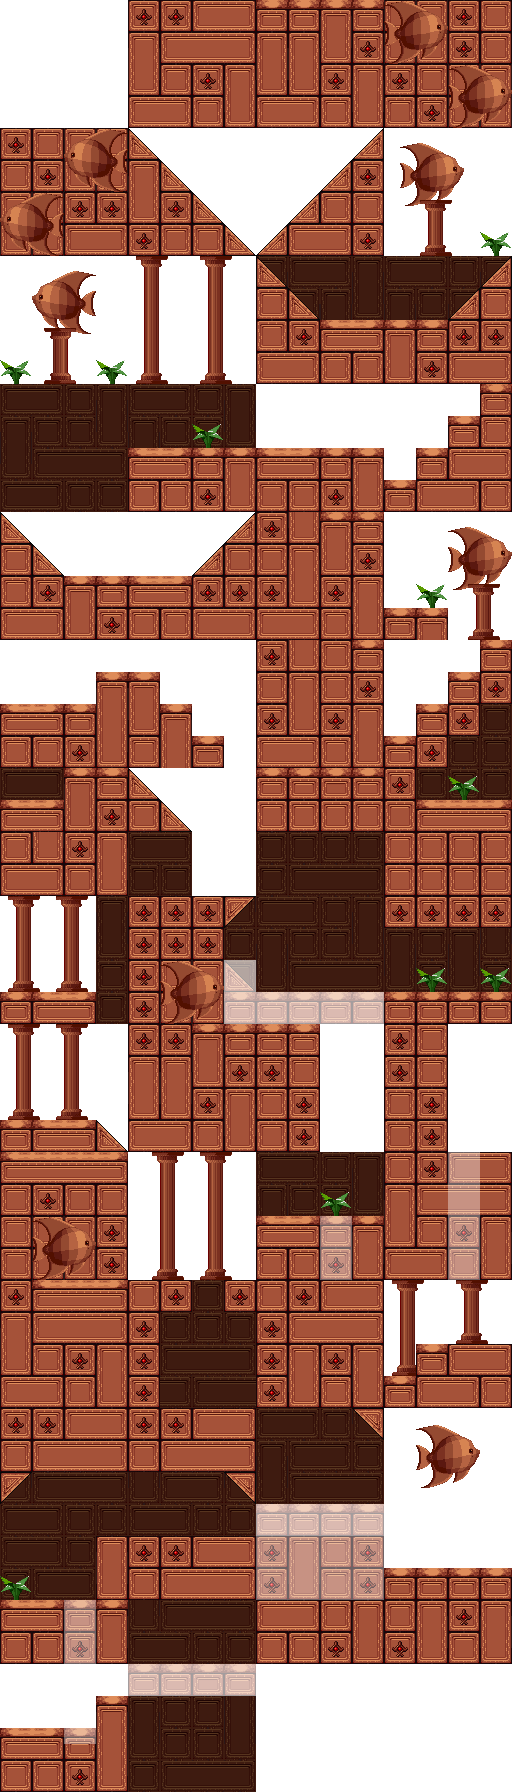
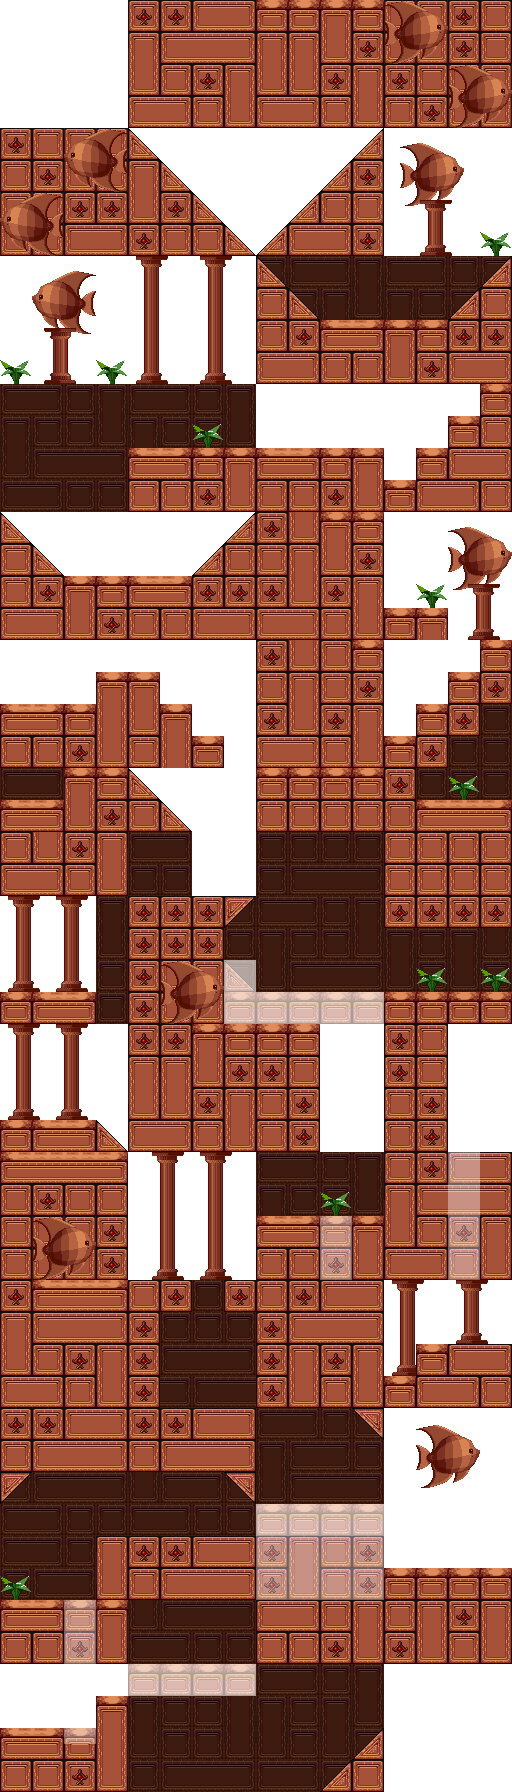
Improve R5 background, add water waves

Changed region(s): [[0.5, 0.9062, 0.75, 1.0]]

diff --git a/src/screen_level.c b/src/screen_level.c
@@ -284,6 +284,105 @@ screen_level_update(void *d)
 }
 
 void
+_screen_level_draw_water(screen_level_data *)
+{
+    if(level_water_y >= 0) {
+        int32_t camera_bottom = camera.pos.vy + (CENTERY << 12);
+
+        if(camera_bottom > level_water_y) {
+            int32_t water_vh = camera_bottom - level_water_y;
+            uint16_t water_rh = water_vh >> 12;
+            uint16_t water_h = MIN(water_rh, SCREEN_YRES);
+            int16_t water_y = MAX(0, SCREEN_YRES - water_h);
+            int16_t water_ry = SCREEN_YRES - water_rh;
+
+            // Draw water overlay
+            {
+                POLY_G4 *poly = get_next_prim();
+                increment_prim(sizeof(POLY_G4));
+                setPolyG4(poly);
+                setXYWH(poly, 0, water_y, SCREEN_XRES, water_h);
+                setSemiTrans(poly, 1);
+                setRGB0(poly,
+                        LERPC(level_fade, 31),
+                        LERPC(level_fade, 36),
+                        LERPC(level_fade, 121));
+                setRGB1(poly,
+                        LERPC(level_fade, 31),
+                        LERPC(level_fade, 36),
+                        LERPC(level_fade, 121));
+                setRGB2(poly,
+                        LERPC(level_fade, 25),
+                        LERPC(level_fade, 12),
+                        LERPC(level_fade, 64));
+                setRGB3(poly,
+                        LERPC(level_fade, 25),
+                        LERPC(level_fade, 12),
+                        LERPC(level_fade, 64));
+            
+                /* POLY_F4 *poly = get_next_prim(); */
+                /* increment_prim(sizeof(POLY_F4)); */
+                /* setPolyF4(poly); */
+                /* setXYWH(poly, 0, water_y, SCREEN_XRES, water_h); */
+                /* setSemiTrans(poly, 1); */
+                /* setRGB0(poly, */
+                /*         LERPC(level_fade, 31), */
+                /*         LERPC(level_fade, 36), */
+                /*         LERPC(level_fade, 121)); */
+
+                sort_prim(poly, OTZ_LAYER_LEVEL_FG_FRONT);
+            }
+
+            // Draw water waves
+            {
+                static uint8_t wave_dir = 0;
+                static uint8_t wave_visible = 1;
+
+                uint32_t frame = get_global_frames();
+
+                if(!(frame % 6)) wave_dir = !wave_dir;
+                if(!(frame % 3)) wave_visible = !wave_visible;
+                
+                // Water wave sprites is within common objects texture.
+                // uv0 = (146, 183); wh=(64, 9)
+                // Sprite plays for 20 frames and then flips direction
+                for(uint16_t i = 0; i < 6; i++) {
+                    uint16_t x = i * 64;
+
+                    uint8_t current_visible = (i + wave_visible) % 2;
+
+                    POLY_FT4 *poly = get_next_prim();
+                    increment_prim(sizeof(POLY_FT4));
+                    setPolyFT4(poly);
+                    setRGB0(poly, level_fade, level_fade, level_fade);
+                    // There is some sort of trickery here.
+                    // Rendering the waves actually influence on
+                    // water color. We render the waves as a fully
+                    // transparent pixel when invisible so
+                    // the body of water doesn't blink
+                    if(!current_visible)
+                        setUVWH(poly, 0, 0, 0, 0);
+                    else if(wave_dir)
+                        setUVWH(poly, 146, 183, 64, 9);
+                    else setUV4(poly,
+                                146 + 63, 183,
+                                146, 183,
+                                146 + 63, 183 + 9,
+                                146, 183 + 9);
+                    setXYWH(poly, x, water_ry - 6, 64, 9);
+                    // tpage and clut same as common objects
+                    poly->tpage = getTPage(1, 0, 576, 0);
+                    poly->clut = getClut(0, 481);
+                    setSemiTrans(poly, 1);
+                    sort_prim(poly, OTZ_LAYER_LEVEL_FG_FRONT);
+                }
+            }
+        }
+        
+    }
+}
+
+void
 screen_level_draw(void *d)
 {
     screen_level_data *data = (screen_level_data *)d;
@@ -293,50 +392,7 @@ screen_level_draw(void *d)
     // When things are drawn on the same otz, anything drawn first
     // is shown on front, as the ordering table is drawn backwards.
 
-    // Draw water
-    if(level_water_y >= 0) {
-        int32_t camera_bottom = camera.pos.vy + (CENTERY << 12);
-
-        if(camera_bottom > level_water_y) {
-            int32_t water_vh = camera_bottom - level_water_y;
-            uint16_t water_h = MIN(water_vh >> 12, SCREEN_YRES);
-            uint16_t water_y = MAX(0, SCREEN_YRES - water_h);
-
-            POLY_G4 *poly = get_next_prim();
-            increment_prim(sizeof(POLY_G4));
-            setPolyG4(poly);
-            setXYWH(poly, 0, water_y, SCREEN_XRES, water_h);
-            setSemiTrans(poly, 1);
-            setRGB0(poly,
-                    LERPC(level_fade, 31),
-                    LERPC(level_fade, 36),
-                    LERPC(level_fade, 121));
-            setRGB1(poly,
-                    LERPC(level_fade, 31),
-                    LERPC(level_fade, 36),
-                    LERPC(level_fade, 121));
-            setRGB2(poly,
-                    LERPC(level_fade, 25),
-                    LERPC(level_fade, 12),
-                    LERPC(level_fade, 64));
-            setRGB3(poly,
-                    LERPC(level_fade, 25),
-                    LERPC(level_fade, 12),
-                    LERPC(level_fade, 64));
-            
-            /* POLY_F4 *poly = get_next_prim(); */
-            /* increment_prim(sizeof(POLY_F4)); */
-            /* setPolyF4(poly); */
-            /* setXYWH(poly, 0, water_y, SCREEN_XRES, water_h); */
-            /* setSemiTrans(poly, 1); */
-            /* setRGB0(poly, */
-            /*         LERPC(level_fade, 31), */
-            /*         LERPC(level_fade, 36), */
-            /*         LERPC(level_fade, 121)); */
-            
-            sort_prim(poly, OTZ_LAYER_LEVEL_FG_FRONT);
-        }
-    }
+    _screen_level_draw_water(data);
 
     // Draw player
     if(abs((player.pos.vx - camera.pos.vx) >> 12) <= SCREEN_XRES
